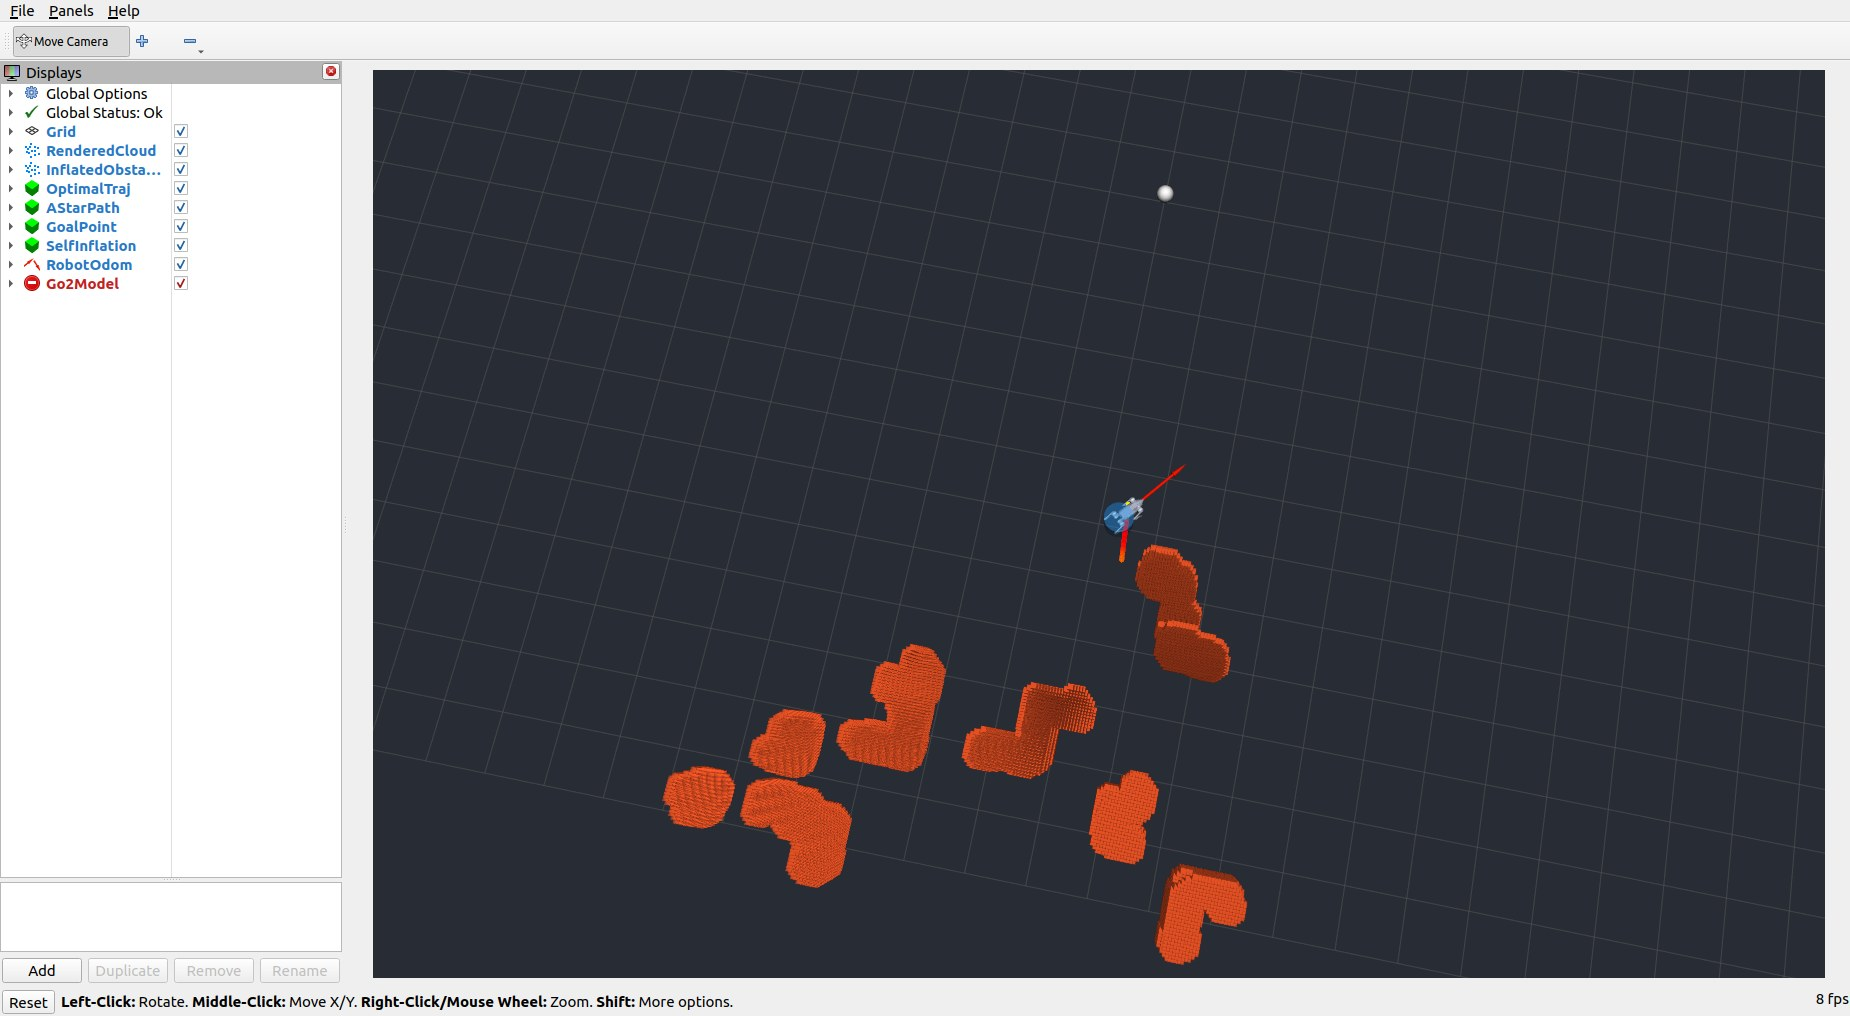
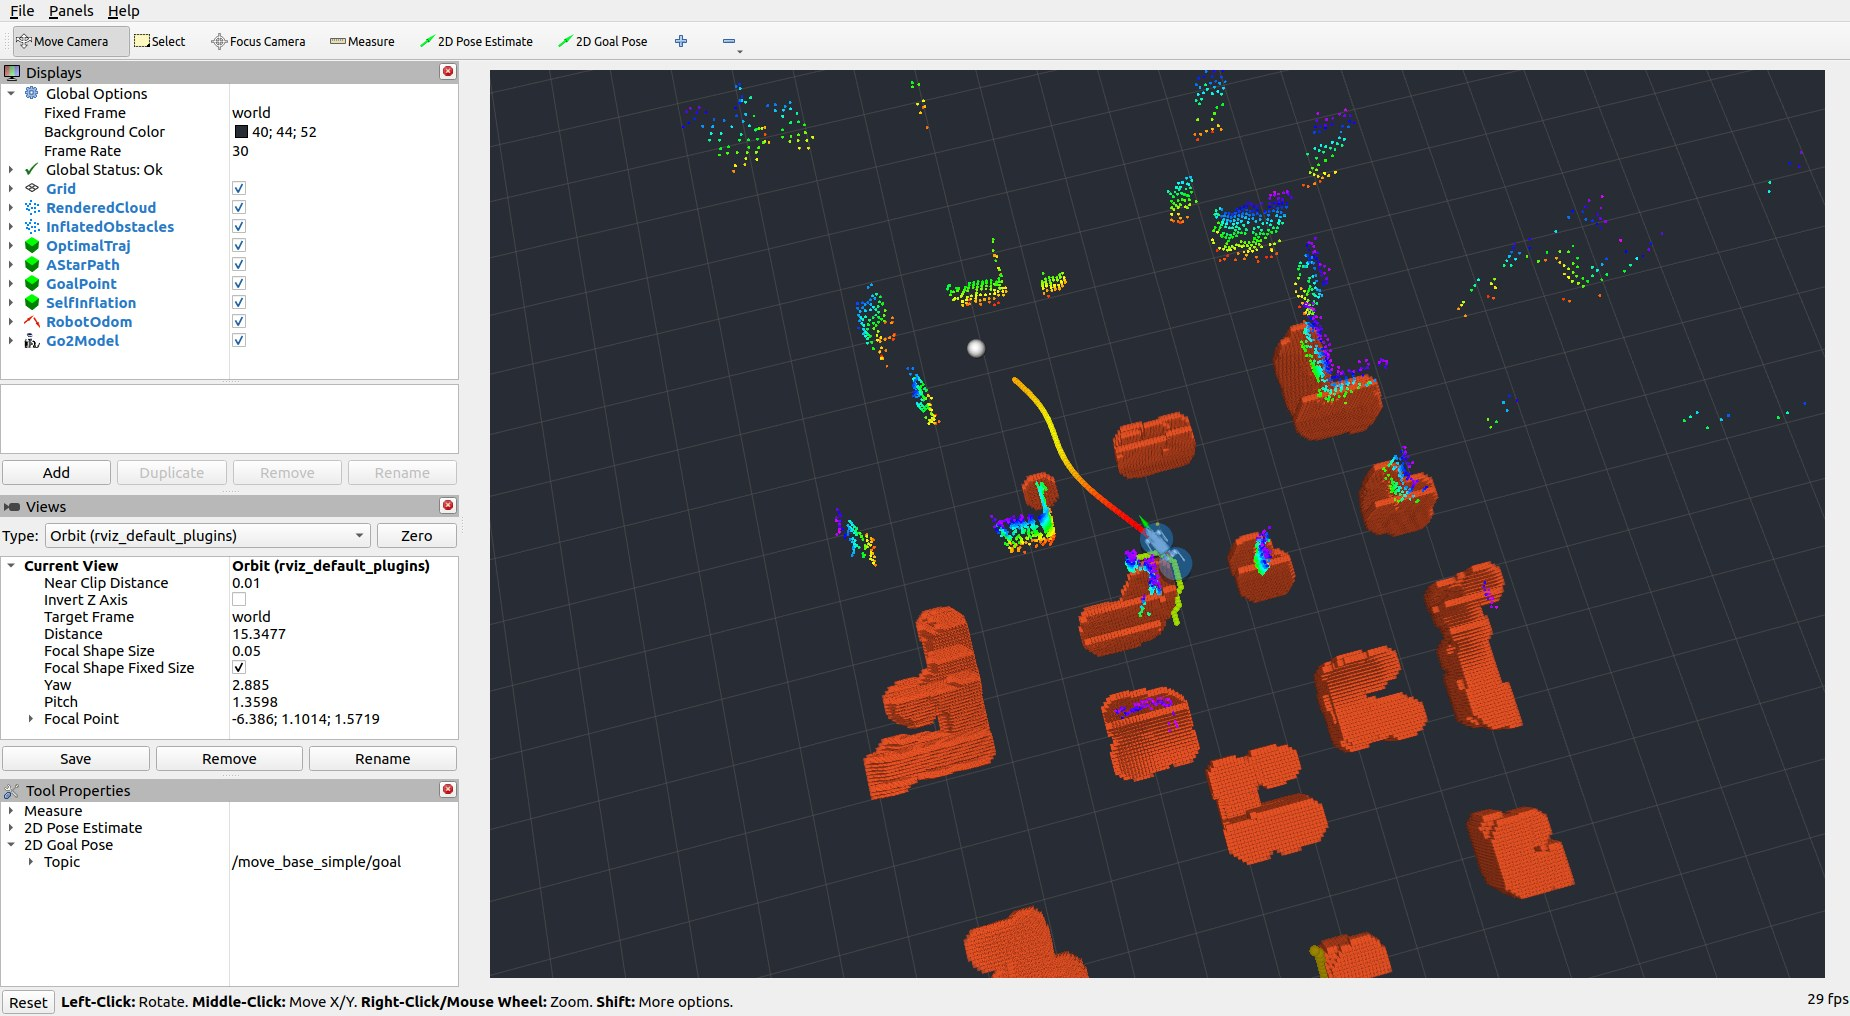
fix bug for simulator mapping in scan planner

diff --git a/src/SCAN-Planner/src/planner/plan_manage/launch/run.launch.py b/src/SCAN-Planner/src/planner/plan_manage/launch/run.launch.py
@@ -233,6 +233,19 @@ def launch_setup(context, *args, **kwargs):
             }.items(),
         ))
 
+    # --- RViz2 with the pre-configured example view (toggle with rviz:=false) ---
+    if LaunchConfiguration('rviz').perform(context).lower() in ('true', '1'):
+        rviz_config = os.path.join(
+            get_package_share_directory('scan_planner'), 'rviz', 'example.rviz')
+        if os.path.exists(rviz_config):
+            actions.append(Node(
+                package='rviz2',
+                executable='rviz2',
+                name='rviz2',
+                arguments=['-d', rviz_config],
+                output='screen',
+            ))
+
     return actions
 
 
@@ -256,6 +269,9 @@ def generate_launch_description():
         DeclareLaunchArgument('map_size_y', default_value='40.0'),
         DeclareLaunchArgument('map_size_z', default_value='5.0'),
         DeclareLaunchArgument('use_gpu', default_value='false'),
+
+        # Start RViz2 with the pre-configured example view (rviz:=false to disable)
+        DeclareLaunchArgument('rviz', default_value='true'),
 
         OpaqueFunction(function=launch_setup),
     ])

diff --git a/src/SCAN-Planner/src/planner/plan_env/src/grid_map.cpp b/src/SCAN-Planner/src/planner/plan_env/src/grid_map.cpp
@@ -966,6 +966,7 @@ void GridMap::publishMap()
   sensor_msgs::msg::PointCloud2 cloud_msg;
 
   pcl::toROSMsg(cloud, cloud_msg);
+  cloud_msg.header.stamp = node_->now();
   map_pub_->publish(cloud_msg);
 }
 
@@ -1007,6 +1008,7 @@ void GridMap::publishMapInflate(bool all_info)
   sensor_msgs::msg::PointCloud2 cloud_msg;
 
   pcl::toROSMsg(cloud, cloud_msg);
+  cloud_msg.header.stamp = node_->now();
   map_inf_pub_->publish(cloud_msg);
 
   // ROS_INFO("pub map");
@@ -1123,6 +1125,7 @@ void GridMap::publishUnknown()
 
   sensor_msgs::msg::PointCloud2 cloud_msg;
   pcl::toROSMsg(cloud, cloud_msg);
+  cloud_msg.header.stamp = node_->now();
   unknown_pub_->publish(cloud_msg);
 }
 

diff --git a/docs/example.md b/docs/example.md
@@ -17,6 +17,8 @@ source /opt/ros/humble/setup.bash
 colcon build
 ```
 
+完整编译参考 ("compile")[scan_planner_compiled.md].
+
 ### 1.2 只编核心规划器（不含仿真器）
 ```bash
 cd /home/ros/rosws/planner_ws
@@ -38,7 +40,7 @@ colcon build
 
 ## 2. 启动仿真示例（MARSIM 迷宫）
 
-**终端 1** —— 启动整套仿真 + 规划器：
+**终端 1** —— 一条命令启动整套仿真 + 规划器 + RViz2：
 ```bash
 cd /home/ros/rosws/planner_ws
 source /opt/ros/humble/setup.bash
@@ -46,13 +48,14 @@ source install/setup.bash
 ros2 launch scan_planner run.launch.py
 ```
 
-会启动 8 个节点：
+会启动 8 个仿真/规划节点，并**自动开启 RViz2**（加载 `example.rviz`，详见 §3；加 `rviz:=false` 可关闭）：
 - `scan_planner_node` —— 规划器主节点（前端 A* + 后端 B 样条优化 + FSM）
 - `mockamap_node` —— 程序化生成迷宫地图 → `/map_generator/global_cloud`
 - `pcl_render_node` —— 从地图 + 机器人位姿渲染传感器点云 → `/pcl_render_node/cloud`
 - `go2_kinematic_sim` —— 运动学机器人（收 `/cmd_vel`，发里程计 `/quad_0/body_pose`）
 - `closed_loop_controller` —— 轨迹跟踪，发 `/cmd_vel`
 - `go2_gait_publisher` / `odom_visualization` / `go2_robot_state_publisher` —— 步态/可视化/URDF
+- `rviz2` —— 可视化（自动加载 `example.rviz`，Fixed Frame=`world`，显示项已就位）
 
 ### 常用 launch 参数（`参数:=值`）
 | 参数 | 默认 | 说明 |
@@ -66,6 +69,7 @@ ros2 launch scan_planner run.launch.py
 | `init_x`/`init_y`/`init_z` | `-19` / `1` / `0.3` | 机器人初始位姿 |
 | `map_size_x/y/z` | `40` / `40` / `5` | 地图尺寸 (m)，大致范围 x,y ∈ [-20, 20] |
 | `use_gpu` | `false` | GPU 渲染（`opengl_render_node` 未迁移，保持 `false`） |
+| `rviz` | `true` | 是否随启动自动开启 RViz2 并加载 `example.rviz` |
 
 例：
 ```bash
@@ -76,13 +80,13 @@ ros2 launch scan_planner run.launch.py max_vel:=1.0 init_x:=-15.0
 
 ## 3. 可视化（RViz2）
 
-仓库已提供预配置好全部显示项的 rviz2 配置：**`src/SCAN-Planner/rviz/example.rviz`**，直接加载即可，**无需手动 Add**。
+**`run.launch.py` 默认会自动启动 RViz2 并加载**预配置好全部显示项的 `example.rviz`（源文件在 `src/SCAN-Planner/rviz/`，编译后装到包的 share 目录）——**无需再开终端、无需手动 Add**。启动时加 `rviz:=false` 可关闭。
 
-**终端 2**：
+如需单独/手动启动（例如用了 `rviz:=false`，或想开第二个 RViz）：
 ```bash
 source /opt/ros/humble/setup.bash
 source /home/ros/rosws/planner_ws/install/setup.bash
-rviz2 -d /home/ros/rosws/planner_ws/src/SCAN-Planner/rviz/example.rviz
+rviz2 -d $(ros2 pkg prefix scan_planner)/share/scan_planner/rviz/example.rviz
 ```
 
 该配置已包含（Fixed Frame = `world`）：
@@ -133,7 +137,7 @@ ros2 topic pub -1 /move_base_simple/goal geometry_msgs/msg/PoseStamped \
 ## 5. 检查运行状态
 ```bash
 source /opt/ros/humble/setup.bash && source /home/ros/rosws/planner_ws/install/setup.bash
-ros2 node list                            # 应有 8 个仿真/规划节点
+ros2 node list                            # 8 个仿真/规划节点 + rviz2
 ros2 topic hz /pcl_render_node/cloud      # ~10 Hz  → 传感器渲染正常
 ros2 topic hz /quad_0/body_pose           # ~100 Hz → 里程计正常
 ros2 topic hz /cmd_vel                    # 发目标后有输出 → 控制器在驱动
@@ -156,4 +160,26 @@ ros2 launch scan_planner run.launch.py is_real_world:=true
 
 ---
 
-相关文档：`docs/compilereq.md`（依赖/系统环境）、`docs/ros2_migration_guide.md`（ROS1→ROS2 迁移说明）、`docs/scan_sim.png`（仿真截图）、`src/SCAN-Planner/rviz/example.rviz`（RViz2 预配置）。
+## 8. 常见问题 / 排查
+
+### 占用地图（occupancy）在 RViz 里导航后消失
+- **现象**：初始化时能看到 `/grid_map/occupancy_inflate` 局部占用地图，机器人导航一会儿后地图从 RViz 消失（但用 `ros2 topic echo` 看话题其实仍在持续发布点云）。
+- **根因**：`plan_env/grid_map.cpp` 的 `publishMap` / `publishMapInflate` / `publishUnknown` 发布点云时**未设置 `header.stamp`**（`pcl::toROSMsg` 拷来的 PCL 时间戳恒为 0）。当 ROS 域内存在 gazebo 等发布的 `/clock`、RViz 的 TF 缓冲区推进到真实时间后，其 tf2 MessageFilter 会把时间戳为 0 的点云判为“过旧”而丢弃 → 于是初始化能显示、跑一会儿就消失。（`publishDepthCloud` / `publishSlidingMapFrame` / `publishSlidingMapBBox` 迁移时已有戳，唯独这三个漏了。）
+- **修复（已修复）**：三处发布前补 `cloud_msg.header.stamp = node_->now();`，重编 `plan_env` + `scan_planner`（静态库需重链）。占用地图现在导航全程持续显示。验证：
+  ```bash
+  # 时间戳应为真实时间（非 sec: 0）
+  ros2 topic echo --once --no-arr /grid_map/occupancy_inflate | grep -A3 stamp
+  ```
+
+### 规划日志出现 `a star error, force return!`
+规划器在个别 replan 子过程中 A* 未找到路径时的正常回退提示，会继续 replan 并到达目标，不影响整体导航。
+
+### 发了目标机器人不动 / RViz 点选无反应
+见 §4.1：RViz 的 “2D Goal Pose” 默认发布到 `/goal_pose`，而本项目订阅 `/move_base_simple/goal`。用本仓库的 `example.rviz` 已预设正确话题；否则改工具话题或改用命令行方法 A。
+
+### 完整 `colcon build` 里 4 个仿真包报错（历史）
+若看到 `pose_utils` / `mockamap` 等报 `catkin` 相关错误，说明用的是**未迁移**的旧代码；当前仓库这些包均已迁移到 ament_cmake，正常 `colcon build` 应 0 失败（14 个包，含相邻 `ego_planner`）。
+
+---
+
+相关文档：`docs/scan_planner_compiled.md`（ROS 2 编译文档 / 依赖 / 环境）、`docs/ros2_migration_guide.md`（ROS1→ROS2 迁移说明）、`docs/scan_sim.png`（仿真截图）、`src/SCAN-Planner/rviz/example.rviz`（RViz2 预配置）。